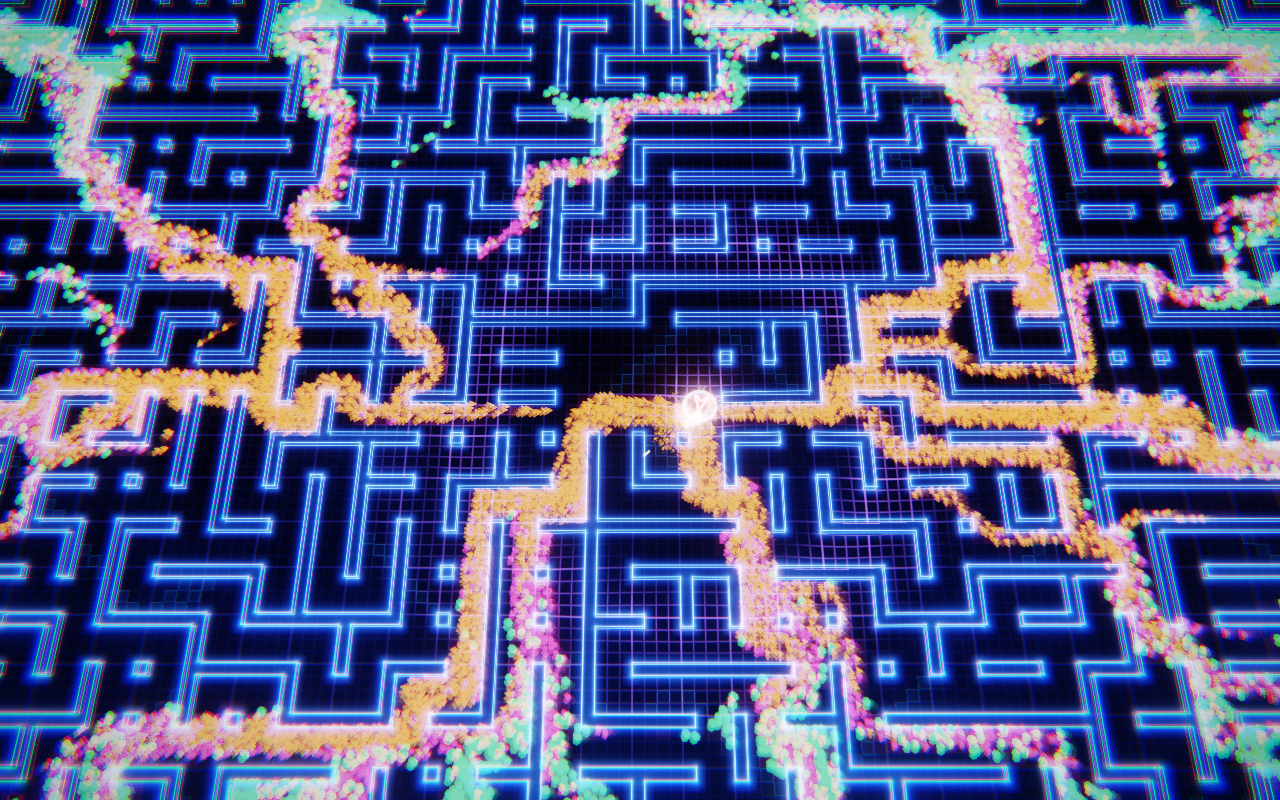
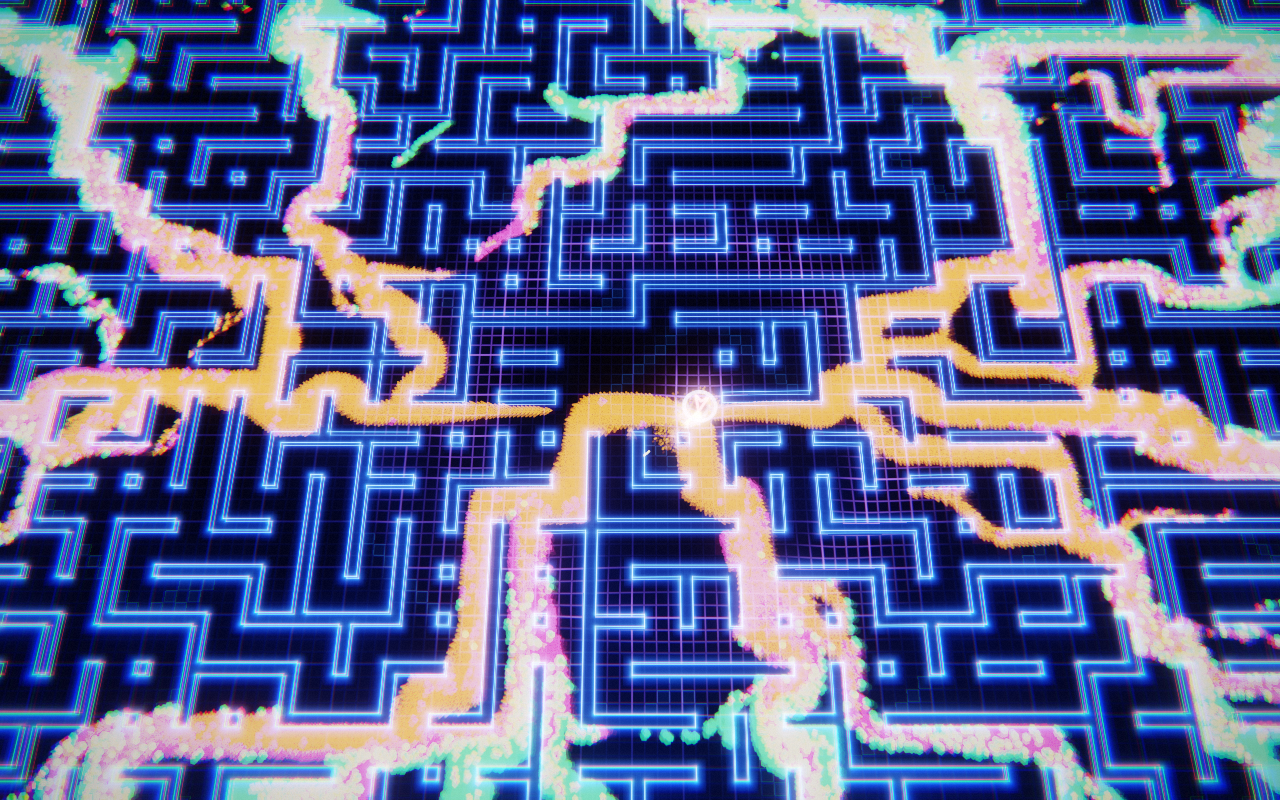
lang-experiment/horde: with workers on, up to a third of enemies were not drawn
Tom, playing: "when toggling T, more enemies appear with T unticked". The renderer
uploaded each batch at byte offset base * 20, left from round 1's 5-float agent; an
agent is 8 floats since round 2. One batch (main thread) has base 0 and was right; with
several batches each overwrote the start of the one before, the end of the GPU buffer
was never written, and later batches were read mid-agent.

  n=50000  frame 300, alive 31327     drawn before -> after    lit pixels before -> after
  main                                31327 -> 31327           54852 -> 54852
  transfer, 8 workers                 21037 -> 31327           27160 -> 54852
  transfer, 17 workers                20488 -> 31327           25010 -> 54852

The simulation was never wrong: state hashes agreed across modes throughout. The
earlier checks compared state, not what was drawn. render-parity.ts now reads back the
GPU buffer and the enemy layer in every mode (36 probes agree), and replays a run with T
pressed 29 times and the pool resized: state equal at all 1201 frames, drawn = alive =
HUD at 41 probes. With the old offset restored it fails 13 checks.

Also: T, P, R and O no longer switch the bot off. All transfer-mode screenshots retaken.
Frame-rate tables are from before the fix and were not re-measured.

diff --git a/tools/lang-experiment/horde/render-parity.ts b/tools/lang-experiment/horde/render-parity.ts
@@ -1,0 +1,87 @@
+// bun horde/render-parity.ts [--quick] : what is drawn equals what is simulated, in every mode.
+// Part 1, fixed frames: game.html offline (frames back to back, bot, god mode, overview camera) at n 50k and 100k
+// from wave 6, for main, transfer/8 and transfer/17. At frames 300, 900, 1800 it reads (a) live agents in the sim's
+// arrays, (b) live agents in the GPU's agent buffer, (c) hashes of both, (d) lit pixels of the enemy layer drawn
+// alone. Asserts (a) = (b), the two hashes are equal, and (a), the hash and (d) agree across modes.
+// Part 2, toggling during rAF play: n 50k from wave 6, transfer/17, the bot in god mode, in the page's real rAF loop.
+// Run A is left alone; run B gets T pressed every 0.7 s and the pool slider moved to another size between presses.
+// The state hash after every step of B must equal A's at the same sim frame, and every 30 steps B's probe must
+// show drawn = alive, GPU buffer = sim arrays and the HUD's alive count = alive.
+// The renderer itself throws if it is handed a detached or partial array (proto/render.js uploadAgents).
+import { chromium } from "../../../node_modules/playwright/index.mjs";
+import { resolve } from "node:path";
+const quick = process.argv.includes("--quick");
+const url = "file://" + resolve(import.meta.dir, "proto/game.html");
+const browser = await chromium.launch();
+let failures = 0;
+const fail = (m: string) => { failures++; console.log("FAIL", m); };
+const sizes = quick ? [50000] : [50000, 100000];
+const frames = quick ? [300] : [300, 900, 1800];
+const arms = [["main", 0], ["transfer", 8], ["transfer", 17], ["lite", 8]] as const;
+console.log("   n    frame  arm           alive  drawn  simHash  gpuHash  lit");
+for (const n of sizes) {
+  const byFrame = new Map<number, any[]>();
+  for (const [mode, w] of arms) {
+    const page = await browser.newPage({ viewport: { width: 1280, height: 800 } });
+    page.on("pageerror", (e) => fail(`${mode}/${w} pageerror ${e.message}`));
+    await page.goto(`${url}?n=${n}&wave=6&mode=${mode}&workers=${w}&shot=overview&frames=${Math.max(...frames)}&probe=${frames.join(",")}`, { waitUntil: "commit" });
+    await page.waitForFunction(() => (window as any).__ready, null, { timeout: 600000 });
+    const err = await page.evaluate(() => (window as any).__error);
+    if (err) fail(`${mode}/${w}: ${err}`);
+    const probes: any[] = (await page.evaluate(() => (window as any).__ready.probes)) || [];
+    await page.close();
+    for (const p of probes) {
+      console.log(`${String(n).padStart(6)} ${String(p.simFrame).padStart(6)}  ${(mode + "/" + p.workers).padEnd(12)} ${String(p.alive).padStart(6)} ${String(p.drawn).padStart(6)}  ${p.simHash} ${p.gpuHash} ${p.lit}`);
+      if (p.drawn !== p.alive) fail(`n ${n} frame ${p.simFrame} ${mode}/${w}: drawn ${p.drawn} != alive ${p.alive}`);
+      if (p.gpuHash !== p.simHash) fail(`n ${n} frame ${p.simFrame} ${mode}/${w}: GPU buffer hash ${p.gpuHash} != sim ${p.simHash}`);
+      if (p.hudAlive !== p.alive) fail(`n ${n} frame ${p.simFrame} ${mode}/${w}: HUD alive ${p.hudAlive} != ${p.alive}`);
+      if (p.uploadFrame !== p.simFrame) fail(`n ${n} frame ${p.simFrame} ${mode}/${w}: uploaded frame ${p.uploadFrame}`);
+      byFrame.set(p.simFrame, [...(byFrame.get(p.simFrame) || []), { arm: `${mode}/${w}`, ...p }]);
+    }
+    if (probes.length !== frames.length) fail(`n ${n} ${mode}/${w}: ${probes.length} probes`);
+  }
+  for (const [f, ps] of byFrame) for (const k of ["alive", "simHash", "lit"]) {
+    const vals = new Set(ps.map((p) => p[k]));
+    if (vals.size !== 1) fail(`n ${n} frame ${f}: ${k} differs across modes: ${ps.map((p) => `${p.arm}=${p[k]}`).join(" ")}`);
+  }
+}
+console.log(failures ? `${failures} failure(s)` : "part 1: drawn = alive, GPU buffer = sim arrays, and the enemy layer identical across modes, at every probe");
+const before = failures;
+const STEPS = quick ? 400 : 1200;
+async function play(toggle: boolean) {
+  const page = await browser.newPage({ viewport: { width: 1280, height: 800 } });
+  page.on("pageerror", (e) => fail(`play ${toggle ? "toggled" : "plain"} pageerror ${e.message}`));
+  await page.goto(`${url}?n=50000&wave=6&mode=transfer&workers=17&bot=1&god=1&log=1&w=1280&h=800`);
+  await page.waitForFunction(() => (window as any).__engine);
+  const modes = new Set<string>();
+  let seed = 7, presses = 0;
+  while ((await page.evaluate(() => (window as any).__engine.frame)) < STEPS) {
+    if (toggle) {
+      await page.keyboard.press("t"); presses++;
+      await page.waitForTimeout(350);
+      seed = (seed * 1103515245 + 12345) % 2147483648;
+      const size = 1 + ((seed >>> 16) % 24);
+      await page.$eval("#wk", (el: any, v: number) => { el.value = String(v); el.dispatchEvent(new Event("input")); }, size);
+      await page.waitForTimeout(350);
+      modes.add(await page.evaluate(() => { const e = (window as any).__engine; return e.mode + "/" + e.poolSize; }));
+    } else await page.waitForTimeout(500);
+  }
+  const log = await page.evaluate(() => { const l = (window as any).__log; return { stepHashes: { ...l.stepHashes }, rafProbes: [...l.rafProbes] }; });
+  await page.close();
+  return { ...log, modes: [...modes], presses };
+}
+const A = await play(false), B = await play(true);
+let compared = 0;
+for (const f of Object.keys(B.stepHashes)) {
+  if (+f > STEPS || !(f in A.stepHashes)) continue;
+  compared++;
+  if (A.stepHashes[f] !== B.stepHashes[f]) { fail(`toggled run differs from the plain run at sim frame ${f}: ${B.stepHashes[f]} vs ${A.stepHashes[f]}`); break; }
+}
+for (const p of B.rafProbes) {
+  if (p.drawn !== p.alive || p.gpuHash !== p.simHash || p.hudAlive !== p.alive) fail(`toggled run, frame ${p.simFrame} ${p.mode}/${p.workers}: alive ${p.alive} drawn ${p.drawn} hud ${p.hudAlive} sim ${p.simHash} gpu ${p.gpuHash}`);
+}
+console.log(`part 2: ${B.presses} T presses, pool sizes seen ${B.modes.join(" ")}; ${compared} sim frames compared with the untoggled run; ${B.rafProbes.length} probes during play`);
+if (compared < STEPS * 0.8) fail(`only ${compared} of ${STEPS} sim frames logged in both runs`);
+console.log(failures === before ? "part 2: toggled run bit-identical to the plain run at every compared frame; drawn = alive = HUD at every probe" : `${failures - before} part 2 failure(s)`);
+await browser.close();
+process.exit(failures ? 1 : 0);

diff --git a/tools/lang-experiment/horde/proto/render.js b/tools/lang-experiment/horde/proto/render.js
@@ -400,7 +400,7 @@ async function makeRenderer(canvas, engine, opts = {}) {
   for (let i = 0; i < segs1.length / 4; i++) { segs.set(segs1.subarray(i * 4, i * 4 + 4), i * 8); segs.set(segs1.subarray(i * 4, i * 4 + 4), i * 8 + 4); }
   const segBuf = device.createBuffer({ size: segs.byteLength, usage: GPUBufferUsage.VERTEX | GPUBufferUsage.COPY_DST });
   device.queue.writeBuffer(segBuf, 0, segs);
-  const agentBuf = device.createBuffer({ size: Math.max(32, N * 32), usage: GPUBufferUsage.VERTEX | GPUBufferUsage.COPY_DST });
+  const agentBuf = device.createBuffer({ size: Math.max(32, N * 32), usage: GPUBufferUsage.VERTEX | GPUBufferUsage.COPY_DST | GPUBufferUsage.COPY_SRC });
   const MAXS = 65536;
   const sparkData = new Float32Array(MAXS * 12);
   const sparkBuf = device.createBuffer({ size: sparkData.byteLength, usage: GPUBufferUsage.VERTEX | GPUBufferUsage.COPY_DST });
@@ -512,6 +512,59 @@ async function makeRenderer(canvas, engine, opts = {}) {
     const cx = v[0] * X + v[4] * Y + v[12], cy = v[1] * X + v[5] * Y + v[13], cw = v[3] * X + v[7] * Y + v[15];
     return [((cx / cw) * 0.5 + 0.5) * canvas.clientWidth, (0.5 - (cy / cw) * 0.5) * canvas.clientHeight];
   }
+  // Agents go up as one array per batch. Each must be whole and attached (a transfer-mode step in flight
+  // detaches them), the batches must tile 0..N, and each lands at its own base. `upload` stamps what
+  // went up, for render-parity.ts.
+  const AGENT_BYTES = engine.S * 4;
+
+  const upload = { simFrame: -1, chunks: 0, agents: 0 };
+  function uploadAgents() {
+    const ch = engine.chunks, rg = engine.ranges;
+    if (engine.stepping) throw new Error("renderer read the agents while a step was in flight");
+    if (ch.length !== rg.length) throw new Error(`${ch.length} agent arrays for ${rg.length} ranges`);
+    let next = 0;
+    for (let i = 0; i < ch.length; i++) {
+      if (rg[i].base !== next) throw new Error(`range ${i} starts at ${rg[i].base}, expected ${next}`);
+      if (ch[i].byteLength !== rg[i].n * AGENT_BYTES) throw new Error(`agent array ${i}: ${ch[i].byteLength} bytes, expected ${rg[i].n * AGENT_BYTES} (detached or partial)`);
+      device.queue.writeBuffer(agentBuf, rg[i].base * AGENT_BYTES, ch[i].buffer, ch[i].byteOffset, ch[i].byteLength);
+      next += rg[i].n;
+    }
+    if (next !== N) throw new Error(`ranges cover ${next} of ${N} agents`);
+    upload.simFrame = engine.frame; upload.chunks = ch.length; upload.agents = next;
+  }
+  // debug readbacks for render-parity.ts: the agent buffer as the GPU holds it, and the enemy layer
+  // drawn alone (no trail, no floor) into a scratch target, as a count of lit pixels
+  async function readAgents() {
+    const st = device.createBuffer({ size: N * AGENT_BYTES, usage: GPUBufferUsage.MAP_READ | GPUBufferUsage.COPY_DST });
+    const enc = device.createCommandEncoder();
+    enc.copyBufferToBuffer(agentBuf, 0, st, 0, N * AGENT_BYTES);
+    device.queue.submit([enc.finish()]);
+    await st.mapAsync(GPUMapMode.READ);
+    const a = new Float32Array(st.getMappedRange().slice(0));
+    st.unmap(); st.destroy();
+    return a;
+  }
+  let scratch = null;
+  async function enemyLitPixels() {
+    scratch = scratch || device.createTexture({ size: [W, H], format: HDR, usage: GPUTextureUsage.RENDER_ATTACHMENT | GPUTextureUsage.COPY_SRC });
+    const bpr = Math.ceil((W * 8) / 256) * 256;
+    const out = device.createBuffer({ size: bpr * H, usage: GPUBufferUsage.MAP_READ | GPUBufferUsage.COPY_DST });
+    const enc = device.createCommandEncoder();
+    const pass = enc.beginRenderPass({ colorAttachments: [{ view: scratch.createView(), loadOp: "clear", storeOp: "store", clearValue: [0, 0, 0, 0] }] });
+    pass.setPipeline(pEnemy); pass.setBindGroup(0, bgEnemy); pass.setVertexBuffer(0, agentBuf); pass.draw(6, N); pass.end();
+    enc.copyTextureToBuffer({ texture: scratch }, { buffer: out, bytesPerRow: bpr }, [W, H]);
+    device.queue.submit([enc.finish()]);
+    await out.mapAsync(GPUMapMode.READ);
+    const u = new Uint16Array(out.getMappedRange());
+    let lit = 0;
+    // half floats: a non-negative half compares as its bits; 0x2a66 is 0.05
+    for (let y = 0; y < H; y++) for (let x = 0; x < W; x++) {
+      const o = (y * bpr) / 2 + x * 4;
+      if (u[o] > 0x2a66 || u[o + 1] > 0x2a66 || u[o + 2] > 0x2a66) lit++;
+    }
+    out.unmap(); out.destroy();
+    return lit;
+  }
   function frame(dt) {
     time += dt;
     absorb(dt);
@@ -519,8 +572,7 @@ async function makeRenderer(canvas, engine, opts = {}) {
     for (let i = warps.length - 1; i >= 0; i--) if (time - warps[i].t0 > 2.5) warps.splice(i, 1);
     shake *= Math.exp(-6 * dt);
     // agents
-    const ch = engine.chunks, rg = engine.ranges;
-    for (let i = 0; i < ch.length; i++) device.queue.writeBuffer(agentBuf, rg[i].base * 20, ch[i].buffer, ch[i].byteOffset, ch[i].byteLength);
+    uploadAgents();
     if (engine.flow) device.queue.writeBuffer(flowBuf, 0, engine.flow);
     if (engine.crowd) device.queue.writeBuffer(crowdBuf, 0, engine.crowd);
     // sparks: particles first (max blend), then bullets (additive); the ship is drawn last, after its halo
@@ -597,5 +649,5 @@ async function makeRenderer(canvas, engine, opts = {}) {
     }
     return { sparks: s, particles: pn };
   }
-  return { device, frame, explode, project, gpuMs, camera, hasTs, get particles() { return pn; } };
+  return { device, frame, explode, project, upload, readAgents, enemyLitPixels, gpuMs, camera, hasTs, get particles() { return pn; } };
 }

diff --git a/tools/lang-experiment/horde/proto/game.html b/tools/lang-experiment/horde/proto/game.html
@@ -69,7 +69,8 @@
   const keys = new Set();
   addEventListener("keydown", (e) => {
     const k = e.key.toLowerCase();
-    keys.add(k); input.active = true;
+    keys.add(k);
+    if ("wasd ".includes(k)) input.active = true; // only play keys take over from the bot
     if (k === " ") { input.charge = true; e.preventDefault(); }
     if (k === "p") engine.paused = !engine.paused;
     if (k === "r") wantRestart = true;
@@ -124,6 +125,16 @@
     alive = a;
   };
   const dt = engine.sim.params.dt;
+  // render-parity.ts: what the simulation holds against what the renderer uploaded and drew
+  const probeAt = new Set((q.get("probe") || "").split(",").filter(Boolean).map(Number)), probes = [];
+  window.__probes = probes;
+  const liveIn = (arrs) => { let a = 0; for (const c of arrs) for (let i = 4; i < c.length; i += engine.S) if (c[i] > 0) a++; return a; };
+  const probe = async () => {
+    const gpu = await R.readAgents();
+    return { simFrame: engine.frame, uploadFrame: R.upload.simFrame, mode: engine.mode, workers: engine.poolSize, chunks: R.upload.chunks,
+      alive: liveIn(engine.chunks), drawn: liveIn([gpu]), simHash: hashAgents(engine.chunks), gpuHash: hashAgents([gpu]), lit: await R.enemyLitPixels(), hudAlive: (countAlive(), alive) };
+  };
+  window.__probe = probe;
 
   if (offline) {
     // screenshots: frames back to back with the bot, deterministic
@@ -135,16 +146,21 @@
       if (engine.shockFired) R.explode(engine.shockFired.x, engine.shockFired.y, 1 + engine.shockFired.s * 2);
       R.frame(dt);
       await R.device.queue.onSubmittedWorkDone();
+      if (probeAt.has(engine.frame)) probes.push(await probe());
     }
     countAlive(); fps = 0; hud(st, st.total);
     if (q.get("hud") !== "1") $("center").style.display = "none";
-    window.__ready = { score: engine.score, kills: engine.kills, wave: engine.wave, alive, health: engine.health, particles: R.particles };
+    window.__ready = { probes, score: engine.score, kills: engine.kills, wave: engine.wave, alive, health: engine.health, particles: R.particles };
     return;
   }
 
   // rAF loop. Each frame: wait for the step started last frame, draw it (the GPU upload copies the
   // agents, so the arrays can be handed to workers next), then start the next step and return.
   // The sim is fixed at 60 steps/s; a frame that is due no step only draws.
+  // render-parity.ts part 2: the state hash after every step, and a probe every 30 steps
+  const logSteps = q.get("log") === "1", stepHashes = {}, rafProbes = [];
+  let lastLogged = -1, lastProbed = -1;
+  window.__log = { stepHashes, rafProbes };
   let pending = null, acc = 0, last = performance.now(), simT = 0, stepsDone = 0;
   const log = []; // measure: per rAF, interval, sim round, main thread busy
   let lastStats = { ...engine.stats };
@@ -156,7 +172,9 @@
     if (pending) { lastStats = { ...(await pending) }; pending = null; stepsDone++; if (engine.shockFired) R.explode(engine.shockFired.x, engine.shockFired.y, 1 + engine.shockFired.s * 2); }
     applyControls();
     if (!bot || input.active) readInput();
+    if (logSteps && pending === null && engine.frame !== lastLogged) { stepHashes[engine.frame] = engine.hash(); lastLogged = engine.frame; }
     R.frame(Math.min(0.05, interval / 1000));
+    if (logSteps && stepsDone % 30 === 0 && engine.frame !== lastProbed) { lastProbed = engine.frame; rafProbes.push(await probe()); }
     // before the step starts: in transfer mode starting it hands the agent arrays to the workers
     if (stepsDone % 15 === 0) countAlive();
     acc = Math.min(acc + interval / 1000, dt * 2);

diff --git a/tools/lang-experiment/horde/proto/engine.js b/tools/lang-experiment/horde/proto/engine.js
@@ -189,7 +189,12 @@ function makeEngine(opts) {
   }
 
   const stats = { serial: 0, post: 0, round: 0, total: 0, active: 0 };
+  let stepping = false;
   async function step() {
+    stepping = true;
+    try { return await stepInner(); } finally { stepping = false; }
+  }
+  async function stepInner() {
     const t0 = performance.now();
     events.length = 0;
     if (g.over || g.paused) { stats.serial = stats.post = stats.round = stats.total = 0; return stats; }
@@ -274,7 +279,7 @@ function makeEngine(opts) {
   configure(opts.mode || "main", opts.workers || 1);
   return {
     sim, maze: M, S, N, step, close, stats, events, configure, restart,
-    get mode() { return mode; }, get poolSize() { return mode === "main" ? 0 : ranges.length; },
+    get mode() { return mode; }, get stepping() { return stepping; }, get poolSize() { return mode === "main" ? 0 : ranges.length; },
     get chunks() { return chunks; }, get ranges() { return mode === "sab" ? [{ base: 0, n: N }] : ranges; },
     get flow() { return g.flow; }, get crowd() { return g.crowd; },
     get bullets() { return g.bullets; }, get player() { return g.player; }, get frame() { return g.frame; },

diff --git a/tools/lang-experiment/horde/README.md b/tools/lang-experiment/horde/README.md
@@ -58,6 +58,7 @@ shard          speed 4.4, hit radius ×0.8
 | `proto/game.html`, `proto/bench.html` | the game; the headless step bench |
 | `lite-job.ts` | builds `proto/lite-job.js` / `lite-pool.js`: the job SoundScript's `compile` would send, run on lite's own `pagePool` |
 | `bench.ts`, `cost-bench.ts`, `determinism.ts`, `play-measure.ts`, `play-input.ts`, `shots.ts` | the measurements below |
+| `render-parity.ts` | drawn = simulated, in every mode and while toggling workers (section "Fewer enemies drawn") |
 | `try-compile.ts` | the real `compile` from `lite/stdlib/runtime.ts` on `batchOnPool` |
 | `smoke.cjs`, `sep-probe.cjs`, `kill-probe.cjs` | the sim in node |
 | `proto/blank.html`, `gpu-probe.ts`, `probe-page.ts`, `lite-pool-entry.ts` | round 1: WebGPU launch probe, one-page bench runner, the lite pool bundle entry |
@@ -281,7 +282,7 @@ All 1280 × 800, headless, frames stepped back to back with the bot in god mode.
 | `play-wave-late.png` | 100k slots from wave 6, 61.5k alive: corridors packed with chevrons, diamonds and hexagons; camera pulled back, sprites scaled down |
 | `shockwave.png` | 50k, wave 3, eight frames after a full-charge release: the grid bowl and the particle ring |
 | `hud.png` | the HUD at wave 3: score, wave timer, health and charge bars, alive/active/max, workers button, pool slider, sim and main-thread ms |
-| `workers-off.png`, `workers-on.png` | the same frame of the same run, main vs transfer ×17: step 13.3 ms vs 2.6 ms in the HUD |
+| `workers-off.png`, `workers-on.png` | the same sim frame (600) of the same run, main vs transfer ×17: step 13.4 ms vs 2.9 ms in the HUD, and the same crowd (retaken after the fix below) |
 | `overview.png` | the O camera over the whole maze at wave 6 |
 | `ship-check.png` | close camera, particles and bullets hidden: the ship drawn above its halo |
 
@@ -292,6 +293,58 @@ a refactor (no ship, no particles); the hurt flash grew without bound under cons
 colour to ±200, which bloomed into a white-green disc the size of a room; sparks summed to white in kill zones
 (now max-blended); enemies brighter than the ship merged into one sheet when dense (now dimmed to 0.7, flash
 capped).
+
+## Fewer enemies drawn with workers on (found 2026-11-15, after round 2's commit 3ca44d87)
+
+Tom, playing: with workers on fewer enemies are drawn than with workers off, and pressing T makes more appear.
+
+**Cause.** `proto/render.js` uploaded each batch's agents at byte offset `base * 20`, round 1's stride of 5
+floats, after round 2 widened an agent to 8 floats (32 bytes). With one batch (`main`, `sab`) `base` is 0 and the
+upload was right. With several batches (`transfer`, `copy`, `lite`) batch i landed at `20·base` instead of
+`32·base`: each batch overwrote the start of the one before it, the tail of the buffer past
+`20·base_last + 32·n_last` bytes was never written, and every batch after the first started mid-agent, so fields
+were read at the wrong positions (on probe frame 0 of the bug run, 7356 instances drew where none were alive). The
+simulation was never wrong: the determinism hashes cover the sim arrays, which were correct. The suspects about
+detached buffers, overlapped steps, instance counts and stale `alive` were checked by the same probe and did not
+apply: the frame stamp matched, every array was whole, and the HUD count equalled the sim count.
+
+**Evidence** (`render-parity.ts`, offline, bot, overview camera, from wave 6; alive = live agents in the sim's
+arrays, drawn = live agents in the GPU's agent buffer read back, lit = pixels of the enemy layer drawn alone):
+
+```
+before (render-parity-before.log)                    after (render-parity-after.log)
+n      frame  arm          alive  drawn   lit          alive  drawn   lit
+ 50000   300  main/0       31327  31327   54852        31327  31327   54852
+ 50000   300  transfer/8   31327  21037   27160        31327  31327   54852
+ 50000   300  transfer/17  31327  20488   25010        31327  31327   54852
+ 50000  1800  main/0       40127  40127  256761        40127  40127  256761
+ 50000  1800  transfer/8   40127  25556  121045        40127  40127  256761
+ 50000  1800  transfer/17  40127  24649  142723        40127  40127  256761
+100000  1800  main/0       81178  81178  337097        81178  81178  337097
+100000  1800  transfer/8   81178  61286  263393        81178  81178  337097
+100000  1800  transfer/17  81178  58080  273913        81178  81178  337097
+```
+
+Before, the GPU buffer's hash differed from the sim's in every multi-batch row; after, it equals the sim's in all 36
+probes (n 50k and 100k, frames 300/900/1800, main, transfer/8, transfer/17, lite/8), and alive, hash and lit are the
+same in every mode.
+
+**Fix.** The upload offset is `base * engine.S * 4`. `uploadAgents()` now also throws if an array is detached or
+not its range's length (`byteLength` against `n·32`), if the ranges do not tile 0..N, or if a step is in flight
+(`engine.stepping`), and stamps the sim frame it uploaded.
+
+**Permanent check.** `bun horde/render-parity.ts` (3 min on this machine; `--quick` under 2 min). Part 1 is the table above.
+Part 2 plays in the real rAF loop at 50k from wave 6, once untouched and once with T pressed every 0.7 s and the pool
+slider moved between presses (29 presses; main and transfer pools of 4, 8, 9, 13, 15, 18, 20 and 24 seen): the toggled run's state hash equalled the untouched run's
+at all 1201 sim frames compared, and at 41 probes during play drawn = alive = the HUD's count. With the old offset put
+back, `--quick` fails 13 checks, 6 of them in part 2, so part 2 also catches this bug.
+
+A side fix found by part 2: T, P, R and O used to mark the input as a player's, which switched the bot off for the
+rest of the run. Now only WASD and space take over from the bot.
+
+Not re-measured after the fix: the fps and step tables above. The fix changes only the upload offset; the GPU still
+draws N instances, so those numbers should not move, but that is inferred, not measured. Every screenshot was
+retaken after the fix.
 
 ## Not done, or not verified
 
